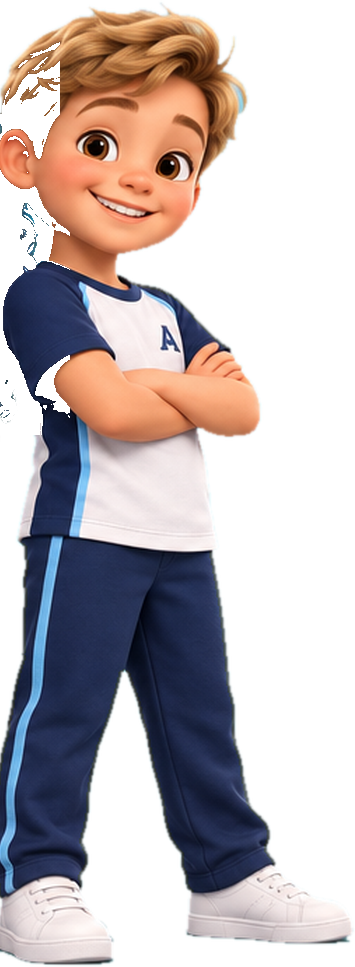
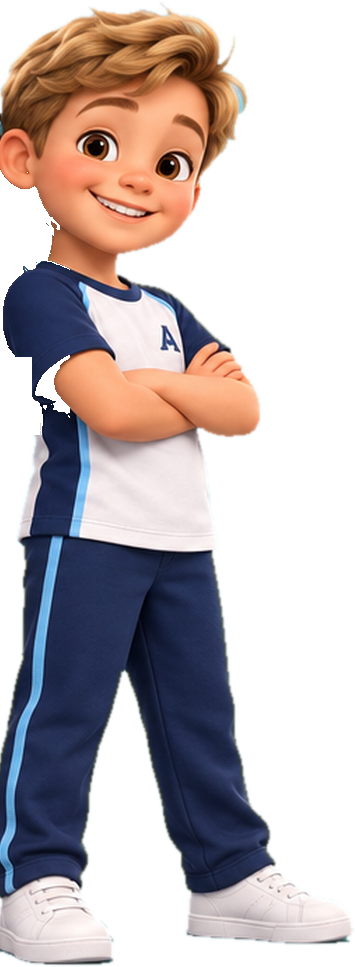
Checkpoint: trabalho dos agentes em andamento
Claude-Session: https://claude.ai/code/session_01XFnar5EqvbkeuXqeMQuF5Q

diff --git a/docs/propostas/06-fonema-unificada/espelho-do-som-3d/demo.js b/docs/propostas/06-fonema-unificada/espelho-do-som-3d/demo.js
@@ -7,11 +7,41 @@
   const P = window.FonemasPT, F = P.F;
   const $ = (s, r = document) => r.querySelector(s), $$ = (s, r = document) => [...r.querySelectorAll(s)];
   const q = new URLSearchParams(location.search);
-  const esp = await EspelhoSom.criar($('#palco'), { fonema: q.get('f') || 'a', modo: q.get('m') || 'frente', capturas: q.has('cap'), forcar2D: q.has('2d') });
-  let atual = q.get('f') || 'a', mudo = q.has('mudo'), lento = false, aba = 'explorar';
+  // três vistas sincronizadas: rosto ilustrado de frente (zoom na boca), raio-X híbrido (Sofia/Tales) e 3D (opcional)
+  const rx = EspelhoSVG.criar($('#vRaiox'), { fonema: q.get('f') || 'a', personagem: q.get('p') || 'sofia' });
+  $('#vRaiox').classList.add('esp-palco');
+  let e3 = null;
+  if (!q.has('2d')) { try { e3 = await EspelhoSom.criar($('#palco'), { fonema: q.get('f') || 'a', modo: 'frente', capturas: q.has('cap') }); if (e3.tipo !== '3d') { e3.destruir(); e3 = null; } } catch (e) { e3 = null; } }
+  let atual = q.get('f') || 'a', mudo = q.has('mudo'), lento = false, aba = 'explorar', vista = 'frente', pers = q.get('p') || 'sofia';
+  const vista3d = () => ['frente3d', 'dentro', 'corpo'].includes(vista);
+  const esp = { // fachada: as duas vistas mexem juntas
+    fonema: (id, o) => { rx.fonema(id, o); if (e3) e3.fonema(id, o); },
+    lento: (v) => { rx.lento(v); if (e3) e3.lento(v); },
+    destacar: (z, ok) => { (vista3d() && e3 ? e3 : rx).destacar(z, ok); },
+    rotulos: (v) => { rx.rotulos(v); if (e3) e3.rotulos(v); },
+    girar: (v) => { if (e3) e3.girar(v); },
+    onToque: (cb) => { rx.onToque(cb); if (e3) e3.onToque(cb); },
+    pose: (a, b, f) => { rx.pose(a, b, f); if (e3) e3.pose(a, b, f); }
+  };
   window.ESPELHO_MUDO = mudo;
   const falar = (t, o) => (mudo ? Promise.resolve() : P.falar(t, Object.assign({ lento }, o)));
   const espera = (ms) => new Promise((r) => setTimeout(r, ms * (lento ? 2.2 : 1)));
+
+  /* ---------- rostos ilustrados de frente (poucas bocas prontas: escolhe a mais parecida) ---------- */
+  const ROSTO = {
+    sofia: { M: 'p b m', A: 'a a~ E k g rr', O: 'O o o~', S: 's z i i~ t d n nh lh', F: 'f v', L: 'l', CH: 'x j u u~', E: 'e e~ r' },
+    tales: { M: 'p b m', O: 'x j', U: 'u u~ o o~ O', I: 'i i~ s z t d n l f v nh lh', E: 'e e~ E r', A: 'a a~ k g rr' }
+  };
+  const EXATO = { sofia: 'p b m a o s z f v l x j e', tales: 'p b m u i a' };
+  const rostoDe = (p, id) => { for (const [k, ids] of Object.entries(ROSTO[p])) if (ids.split(' ').includes(id)) return k; return 'A'; };
+  function poeRosto() {
+    const k = rostoDe(pers, atual), nome = pers === 'sofia' ? 'Sofia' : 'Tales';
+    const boca = $('#fBoca'), src = `recortes/boca-${pers}-${k}.jpg`;
+    $('#fRosto').src = `recortes/rosto-${pers}-${k}.jpg`; $('#fNome').textContent = nome;
+    if (!boca.src.endsWith(src)) { boca.src = src; boca.classList.remove('troca'); void boca.offsetWidth; boca.classList.add('troca'); }
+    const ex = EXATO[pers].split(' ').includes(atual);
+    $('#sofiaLeg').innerHTML = ex ? `${nome} faz assim <small>a boca de frente, bem de perto</small>` : `Parecido com a boca ${pers === 'sofia' ? 'da Sofia' : 'do Tales'} <small>o raio-X mostra a língua certinha</small>`;
+  }
 
   /* ---------- teclado de sons ---------- */
   $('#teclado').innerHTML = P.GRUPOS.map(([nome, ids]) => `<div class="grupo"><small>${nome}</small><div>${ids.map((id) =>
@@ -27,21 +57,29 @@
     $('#cLetra').textContent = f.letra; $('#cIpa').textContent = `/${f.ipa}/`; $('#cEx').textContent = 'como em ' + f.ex;
     $('#cVoz').textContent = f.voz ? '🐝 tem voz (vibra)' : '🤫 sem voz (só ar)'; $('#cVoz').classList.toggle('sim', f.voz);
     $('#cAr').textContent = (f.modo === 'plosiva' ? '💥 ' : '') + AR[f.ar];
-    const [quadro, exato] = f.boca, img = $('#sofiaBoca');
-    if (!img.src.endsWith(`sofia-boca-${quadro}.png`)) { img.src = `recortes/sofia-boca-${quadro}.png`; img.classList.remove('zoom'); void img.offsetWidth; img.classList.add('zoom'); }
-    $('#sofiaLeg').innerHTML = exato ? `A Sofia faz assim <small>boca de frente: “${quadro}”</small>` : `Parecido com a Sofia <small>por enquanto só temos M, A, O e S; o 3D mostra o certo</small>`;
+    poeRosto();
     if (aba === 'explorar') painelExplorar();
   }
   function ouvir() { const f = F[atual]; return falar(`${f.fala}... ${f.ex.replace(/\(.*\)/, '')}`); }
   $('#bOuvir').addEventListener('click', ouvir);
+  $$('.quem button').forEach((b) => b.addEventListener('click', () => trocaPers(b.dataset.p)));
+  function trocaPers(p) { pers = p; $$('.quem button').forEach((x) => x.classList.toggle('on', x.dataset.p === p)); rx.personagem(p); rx.fonema(atual, { instantaneo: true }); poeRosto(); }
 
-  /* ---------- modos de câmera ---------- */
-  function modo(m) { esp.modo(m); $$('.modos [data-modo]').forEach((b) => b.classList.toggle('on', b.dataset.modo === m)); }
+  /* ---------- vistas ---------- */
+  function modo(m) {
+    if (!e3 && ['frente3d', 'dentro', 'corpo'].includes(m)) m = 'lado';
+    vista = m;
+    $('#vFrente').classList.toggle('on', m === 'frente'); $('#vRaiox').classList.toggle('on', m === 'lado');
+    $('#palco').classList.toggle('on', vista3d());
+    if (e3 && vista3d()) e3.modo(m === 'frente3d' ? 'frente' : m);
+    $$('.modos [data-modo]').forEach((b) => b.classList.toggle('on', b.dataset.modo === m));
+    $('.quem').style.display = ['frente', 'lado'].includes(m) ? '' : 'none';
+  }
   $$('.modos [data-modo]').forEach((b) => b.addEventListener('click', () => modo(b.dataset.modo)));
-  $('#bGirar').addEventListener('click', (e) => { const v = e.currentTarget.getAttribute('aria-pressed') !== 'true'; e.currentTarget.setAttribute('aria-pressed', v); esp.girar(v); });
+  $('#bGirar').addEventListener('click', (e) => { const v = e.currentTarget.getAttribute('aria-pressed') !== 'true'; e.currentTarget.setAttribute('aria-pressed', v); if (v && !vista3d()) modo('frente3d'); esp.girar(v); });
   $('#bLento').addEventListener('click', (e) => { lento = !lento; e.currentTarget.setAttribute('aria-pressed', lento); esp.lento(lento); });
   $('#bMudo').addEventListener('click', (e) => { mudo = !mudo; window.ESPELHO_MUDO = mudo; e.currentTarget.setAttribute('aria-pressed', mudo); e.currentTarget.textContent = mudo ? '🔇 Voz desligada' : '🔊 Voz ligada'; if (mudo) speechSynthesis.cancel(); });
-  if (esp.tipo !== '3d') $('.modos').innerHTML = '<span class="chip">Raio-X 2D (abra por um servidor para ver em 3D)</span>';
+  if (!e3) $$('.modos [data-modo=frente3d],.modos [data-modo=dentro],.modos [data-modo=corpo],#bGirar,.modos .sep').forEach((b) => (b.style.display = 'none'));
 
   /* ---------- abas ---------- */
   $$('.abas button').forEach((b) => b.addEventListener('click', () => abrirAba(b.dataset.aba)));
@@ -127,12 +165,12 @@
 
   /* ---------- 3. Imite a Sofia (espelho com câmera OPCIONAL, só local) ---------- */
   let fluxo = null, iI = 0;
-  const IMITE = [['m', 'M'], ['a', 'A'], ['o', 'O'], ['s', 'S']];
+  const IMITE = ['m', 'a', 'o', 's', 'f', 'l', 'x', 'e'];
   function paraCamera() { if (fluxo) { fluxo.getTracks().forEach((t) => t.stop()); fluxo = null; } }
   function exImite() {
-    const [id, quadro] = IMITE[iI % IMITE.length]; modo('frente'); selecionar(id);
-    $('#painel').innerHTML = `<h3>Imite a Sofia!</h3><p>Faça a boca do <b style="font-size:22px">${F[id].letra}</b> como a Sofia.</p>
-      <div class="camera"><figure><div class="mold"><img src="recortes/sofia-boca-${quadro}.png" alt="Boca da Sofia"></div>Sofia</figure>
+    const id = IMITE[iI % IMITE.length]; modo('frente'); selecionar(id); const quadro = rostoDe(pers, id), nomeP = pers === 'sofia' ? 'Sofia' : 'Tales';
+    $('#painel').innerHTML = `<h3>Imite ${pers === 'sofia' ? 'a Sofia' : 'o Tales'}!</h3><p>Faça a boca do <b style="font-size:22px">${F[id].letra}</b> como a Sofia.</p>
+      <div class="camera"><figure><div class="mold"><img src="recortes/boca-${pers}-${quadro}.jpg" alt="Boca de frente"></div>${nomeP}</figure>
       <figure><div class="mold" id="moldCam">${fluxo ? '' : '<span>seu espelho</span>'}</div>Você</figure></div>
       <button class="btn-grande" id="bCam">${fluxo ? '📷 Desligar meu espelho' : '📷 Ligar meu espelho (câmera)'}</button>
       <button class="btn-grande" id="bFiz">Fiz! →</button>
@@ -164,7 +202,7 @@
     baixo: ['Língua deitadinha', 'Nas vogais abertas, como o A, a língua fica deitada lá embaixo.']
   };
   function exCorpo() {
-    modo('corpo'); selecionar('a');
+    modo(e3 ? 'corpo' : 'lado'); selecionar('a');
     const ordem = ['labios', 'dentes', 'lingua', 'palato', 'nariz', 'pulmoes', 'pregas', 'veu'];
     $('#painel').innerHTML = `<h3>Conheça seu corpo</h3><p>Toque numa parte no desenho ou aqui:</p>
       <div class="partes">${ordem.map((k) => `<button data-p="${k}">${PARTES[k][0]}</button>`).join('')}</div>
@@ -181,5 +219,6 @@
   selecionar(atual, { instantaneo: true });
   abrirAba(q.get('aba') || 'explorar');
   if (q.get('m')) modo(q.get('m'));
-  window.DEMO = { esp, selecionar, abrirAba, modo, sequencia };
+  if (q.get('p')) trocaPers(q.get('p'));
+  window.DEMO = { esp, rx, e3, selecionar, abrirAba, modo, trocaPers, sequencia };
 })();

diff --git a/docs/propostas/06-fonema-unificada/espelho-do-som-3d/ferramentas/capturar.js b/docs/propostas/06-fonema-unificada/espelho-do-som-3d/ferramentas/capturar.js
@@ -23,34 +23,30 @@ const srv = http.createServer((q, r) => {
   };
   const foto = async (p, nome, ms = 600) => { await p.waitForTimeout(ms); await p.screenshot({ path: path.join(CAP, nome + '.png') }); console.log('📷', nome); };
   const cenas = [
-    ['01-frente-A', 'f=a&m=frente'], ['02-frente-U', 'f=u&m=frente'], ['03-frente-F-labio-nos-dentes', 'f=f&m=frente'], ['04-frente-M-fechada', 'f=m&m=frente'],
-    ['05-raiox-M-nariz-e-voz', 'f=m&m=lado'], ['06-raiox-L-ponta-no-alveolo', 'f=l&m=lado'], ['07-raiox-K-dorso-no-veu', 'f=k&m=lado'], ['08-raiox-S-ar-fininho', 'f=s&m=lado'],
-    ['09-dentro-da-boca-T', 'f=t&m=dentro'], ['10-dentro-da-boca-K', 'f=k&m=dentro'], ['11-corpo-pulmao-a-boca', 'f=a&aba=corpo']
+    ['01-frente-sofia-A', 'f=a&m=frente', 0], ['02-frente-tales-U', 'f=u&m=frente&p=tales', 0], ['03-frente-sofia-F', 'f=f&m=frente', 0], ['04-frente-sofia-L', 'f=l&m=frente', 0],
+    ['05-raiox-sofia-M-nariz-e-voz', 'f=m&m=lado', 0], ['06-raiox-sofia-L-ponta-no-alveolo', 'f=l&m=lado', 0], ['07-raiox-tales-K-dorso-no-veu', 'f=k&m=lado&p=tales', 0],
+    ['08-raiox-tales-S-ar-fininho', 'f=s&m=lado&p=tales', 0], ['09-raiox-sofia-A-boca-aberta', 'f=a&m=lado', 0],
+    ['10-3d-boca-de-frente-A', 'f=a&m=frente3d', 1500], ['11-3d-dentro-da-boca-T', 'f=t&m=dentro', 4000], ['12-3d-dentro-da-boca-K', 'f=k&m=dentro', 4000], ['13-3d-pulmao-a-boca', 'f=a&aba=corpo', 4000]
   ];
-  for (const [nome, qy] of cenas) { if (!quer(nome)) continue; const p = await pagina(qy); await foto(p, nome, 900); await p.close(); }
-
-  if (quer('12')) { // Onde está a língua? (toca o lugar certo do T: atrás dos dentes)
+  for (const [nome, qy, extra] of cenas) { if (!quer(nome)) continue; const p = await pagina(qy); await foto(p, nome, 900 + extra); await p.close(); }
+  if (quer('14')) { // Onde está a língua? (toca o lugar certo do T: atrás dos dentes)
     const p = await pagina('aba=lingua'); await p.waitForTimeout(1500);
-    await p.evaluate(() => document.querySelector('.esp3d-rot[data-zona=dentes]') && 0);
-    const r = await p.evaluate(() => { const c = document.querySelector('#palco canvas').getBoundingClientRect(); return { x: c.x, y: c.y, w: c.width, h: c.height }; });
-    // projeta o alvo "alvéolo" para a tela e toca nele
-    const alvo = await p.evaluate(() => { const b = document.querySelector('.esp3d-rot[data-zona=dentes]'); const m = b.style.transform.match(/translate\(([-\d.]+)px, ([-\d.]+)px\)/); return [+m[1], +m[2]]; });
-    await p.mouse.click(r.x + alvo[0] + 150 * Math.min(1, r.w / 900) * 1.0 - 25, r.y + alvo[1] - 40);
-    await foto(p, '12-ex-onde-esta-a-lingua', 1800); await p.close();
+    await p.evaluate(() => document.querySelector('#vRaiox circle[data-zona=alveolo]').dispatchEvent(new MouseEvent('click', { bubbles: true })));
+    await foto(p, '14-ex-onde-esta-a-lingua', 1500); await p.close();
   }
-  if (quer('13')) { const p = await pagina('aba=voz'); await p.click('.op button[data-r="1"]'); await foto(p, '13-ex-tem-voz', 2200); await p.close(); }
-  if (quer('14')) { const p = await pagina('aba=imite'); await p.click('#bCam'); await foto(p, '14-ex-imite-a-sofia', 2000); await p.close(); }
-  if (quer('15')) { const p = await pagina('aba=corpo'); await p.click('.partes button[data-p=pregas]'); await foto(p, '15-ex-conheca-seu-corpo', 1500); await p.close(); }
-  if (quer('16')) { const p = await pagina('f=l&2d'); await foto(p, '16-versao-2d-sem-webgl', 800); await p.close(); }
+  if (quer('15')) { const p = await pagina('aba=voz'); await p.click('.op button[data-r="1"]'); await foto(p, '15-ex-tem-voz', 1500); await p.close(); }
+  if (quer('16')) { const p = await pagina('aba=imite'); await p.click('#bCam'); await foto(p, '16-ex-imite-a-sofia', 2000); await p.close(); }
+  if (quer('17')) { const p = await pagina('aba=corpo'); await p.waitForTimeout(3000); await p.click('.partes button[data-p=pregas]'); await foto(p, '17-ex-conheca-seu-corpo', 1500); await p.close(); }
+  
 
   // Transições quadro a quadro (pose congelada entre dois sons), de lado e de frente
   if (quer('transicoes')) {
-    for (const [a, b] of [['m', 'a'], ['l', 'a'], ['t', 'a']]) for (const m of ['lado', 'frente']) {
-      const p = await pagina(`f=${a}&m=${m}`);
+    for (const [a, b] of [['m', 'a'], ['l', 'a'], ['t', 'a']]) for (const m of ['lado']) {
+      const p = await pagina(`f=${a}&m=${m}&2d`);
       for (const f of [0, 0.33, 0.66, 1]) {
         await p.evaluate(([a, b, f]) => window.DEMO.esp.pose(a, b, f), [a, b, f]);
         await p.waitForTimeout(500);
-        const el = await p.$('#palco');
+        const el = await p.$('#vRaiox');
         await el.screenshot({ path: path.join(CAP, 'transicoes', `${a}-${b}-${m}-${Math.round(f * 100)}.png`) });
       }
       console.log('🎞', a, '→', b, m); await p.close();

diff --git a/app/web/index.html b/app/web/index.html
@@ -1,0 +1,18 @@
+<!DOCTYPE html>
+<html lang="pt-BR">
+  <head>
+    <meta charset="utf-8" />
+    <meta name="viewport" content="width=device-width, initial-scale=1, viewport-fit=cover" />
+    <meta name="theme-color" content="#1B3160" />
+    <meta name="description" content="FONEMA · plataforma de alfabetização pelo método fônico, com Sofia e Tales." />
+    <link rel="icon" href="./icones/icone.svg" type="image/svg+xml" />
+    <link rel="apple-touch-icon" href="./icones/icone-192.png" />
+    <title>FONEMA · plataforma de alfabetização</title>
+    <!-- Espelho do Som 3D (Three.js) — copiado de docs/ por scripts/sincronizar-espelho.mjs -->
+    <script type="importmap">{ "imports": { "three": "./espelho/vendor/three.module.js", "three/addons/": "./espelho/vendor/" } }</script>
+  </head>
+  <body>
+    <div id="raiz"></div>
+    <script type="module" src="./src/main.tsx"></script>
+  </body>
+</html>

diff --git a/docs/propostas/06-fonema-unificada/mundo-3d-v2/ferramentas/recortar.py b/docs/propostas/06-fonema-unificada/mundo-3d-v2/ferramentas/recortar.py
@@ -68,12 +68,15 @@ x0 = int(d.width * 0.535)
 t = np.asarray(d.crop((x0, 0, d.width, d.height))).astype(np.float32)
 rgb = t[:, :, :3]
 hair = (rgb.mean(axis=2) < 95) & (rgb[:, :, 0] > rgb[:, :, 2] + 8)  # castanho escuro (cabelo da Sofia)
-hair[:, 60:] = False
+hair[:, 60:] = False; hair[:int(rgb.shape[0] * 0.17)] = False
 a = t[:, :, 3]; a[hair] = 0
 H = t.shape[0]; R, G, B = rgb[:, :, 0], rgb[:, :, 1], rgb[:, :, 2]
-keep = ((R < 90) & (B > R + 25) & (rgb.mean(axis=2) < 125)) | ((R > 150) & (R > B + 30)) | (rgb.min(axis=2) > 200)
-zona = np.zeros_like(keep); zona[int(H * 0.12):int(H * 0.45), :70] = True
+keep = ((R < 90) & (B > R + 25) & (rgb.mean(axis=2) < 125)) | ((R > 150) & (R > B + 30)) | (rgb.min(axis=2) > 200) | ((R > 120) & (R > B + 25) & (G > B + 10))
+zona = np.zeros_like(keep); zona[int(H * 0.17):int(H * 0.45), :70] = True
 a[zona & ~keep] = 0
+pele = (R > 150) & (R > B + 30)
+for (ya, yb, xb) in ((0.18, 0.27, 45), (0.37, 0.46, 32)):
+    z = np.zeros_like(keep); z[int(H * ya):int(H * yb), :xb] = True; a[z & ~pele] = 0
 t[:, :, 3] = a
 ti = Image.fromarray(t.clip(0, 255).astype(np.uint8), 'RGBA')
 ti = ti.crop(ti.getbbox()); ti.save(os.path.join(OUT, 'tales.png'), optimize=True); print('tales', ti.size)
